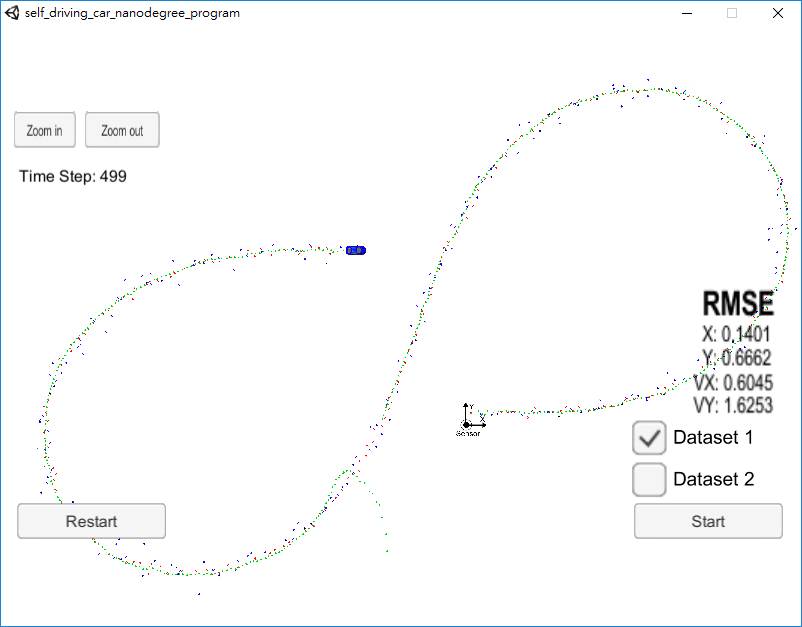
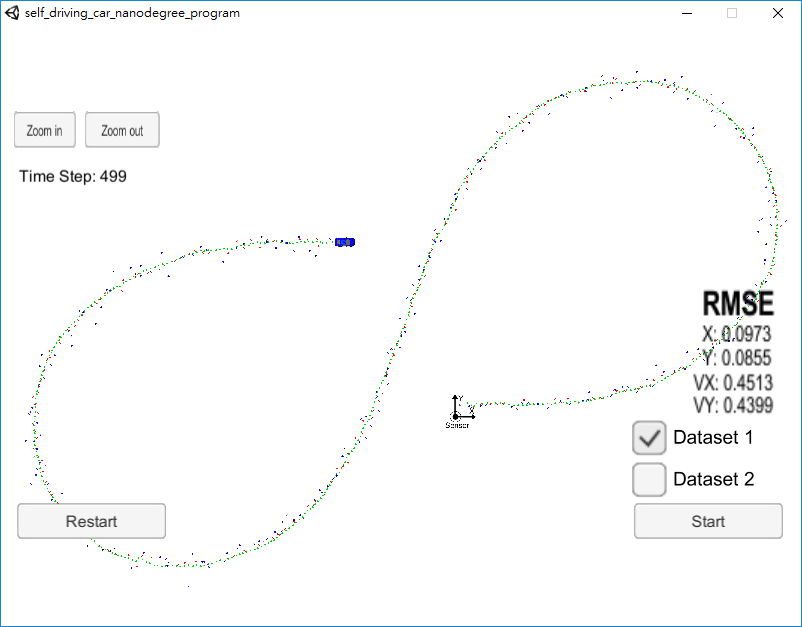
Fixed RMSE value not passed
1. Add angle normalization
2. Adjust some code

diff --git a/src/kalman_filter.cpp b/src/kalman_filter.cpp
@@ -29,17 +29,8 @@ void KalmanFilter::Predict() {
 void KalmanFilter::Update(const VectorXd &z) {
 	VectorXd z_pred = H_ * x_;
 	VectorXd y = z - z_pred;
-	MatrixXd Ht = H_.transpose();
-	MatrixXd S = H_ * P_ * Ht + R_;
-	MatrixXd Si = S.inverse();
-	MatrixXd PHt = P_ * Ht;
-	MatrixXd K = PHt * Si;
 
-	//new estimate
-	x_ = x_ + (K * y);
-	long x_size = x_.size();
-	MatrixXd I = MatrixXd::Identity(x_size, x_size);
-	P_ = (I - K * H_) * P_;
+	UpdateCommon(y);
 }
 
 void KalmanFilter::UpdateEKF(const VectorXd &z) {
@@ -56,6 +47,13 @@ void KalmanFilter::UpdateEKF(const VectorXd &z) {
 	VectorXd z_pred(3);
 	z_pred << rho, phi, rho_dot;
 	VectorXd y = z - z_pred;
+
+	NormalizeAngle(y(1));
+	
+	UpdateCommon(y);
+}
+
+void KalmanFilter::UpdateCommon(const VectorXd &y) {
 	MatrixXd Ht = H_.transpose();
 	MatrixXd S = H_ * P_ * Ht + R_;
 	MatrixXd Si = S.inverse();
@@ -66,5 +64,9 @@ void KalmanFilter::UpdateEKF(const VectorXd &z) {
 	x_ = x_ + (K * y);
 	long x_size = x_.size();
 	MatrixXd I = MatrixXd::Identity(x_size, x_size);
-	P_ = (I - K * H_) * P_;
+	P_ -= K * H_ * P_;
+}
+
+void KalmanFilter::NormalizeAngle(double& phi) {
+	phi = atan2(sin(phi), cos(phi));
 }

diff --git a/src/FusionEKF.cpp b/src/FusionEKF.cpp
@@ -114,12 +114,12 @@ void FusionEKF::ProcessMeasurement(const MeasurementPackage &measurement_pack) {
 	  */
 
 	  //compute the time elapsed between the current and previous measurements
-	float dt = (measurement_pack.timestamp_ - previous_timestamp_) / 1000000.0;	//dt - expressed in seconds
+	const float dt = (measurement_pack.timestamp_ - previous_timestamp_) / 1000000.0;	//dt - expressed in seconds
 	previous_timestamp_ = measurement_pack.timestamp_;
 
-	float dt_2 = dt * dt;
-	float dt_3 = dt_2 * dt;
-	float dt_4 = dt_3 * dt;
+	const float dt_2 = dt * dt;
+	const float dt_3 = dt_2 * dt;
+	const float dt_4 = dt_3 * dt;
 
 	//Modify the F matrix so that the time is integrated
 	ekf_.F_(0, 2) = dt;

diff --git a/src/kalman_filter.h b/src/kalman_filter.h
@@ -64,6 +64,18 @@ public:
    */
   void UpdateEKF(const Eigen::VectorXd &z);
 
+  /**
+	* Updates common function
+	* @param y
+	*/
+  void UpdateCommon(const Eigen::VectorXd &y);
+
+  /**
+	* Nornalize angle
+	* @param phi
+	*/
+  void NormalizeAngle(double &phi);
+
 };
 
 #endif /* KALMAN_FILTER_H_ */

diff --git a/README.md b/README.md
@@ -140,6 +140,7 @@ A well written README file can enhance your project and portfolio.  Develop your
 The green points are prediction points.
 
 This is the result for using both radar and laser data.
+After doing with angle normalization, the RMSE is less than the values [.11, .11, 0.52, 0.52].
 
 ![alt text][image1]
 
